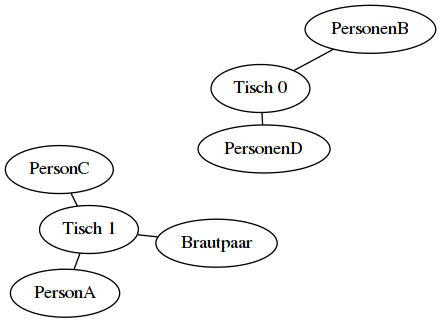
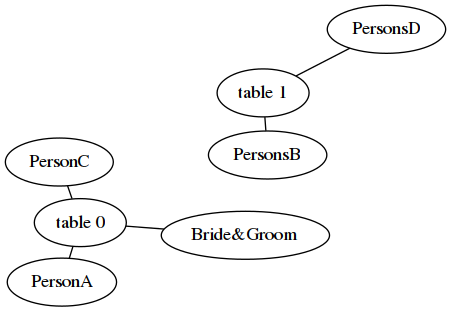
language changes

diff --git a/table_planner.py b/table_planner.py
@@ -126,7 +126,7 @@ if __name__ == "__main__":
     print("nodes = ",len(PG),"edges = ",num_edges)
 
     G.layout(prog="dot")
-    G.draw("graph.png")
+    G.draw("party_dependencies.png")
 
     #for x in PG:
     #    print(x,"(",PG[x][0],")","->",PG[x][1])
@@ -160,7 +160,7 @@ if __name__ == "__main__":
     tb = 0
     for t in T_best:
         for ppl in t[1]:
-            GT.add_edge("Tisch " + str(tb), ppl)
+            GT.add_edge("table " + str(tb), ppl)
         tb += 1
     GT.layout("fdp")
     GT.draw("tables.png")
